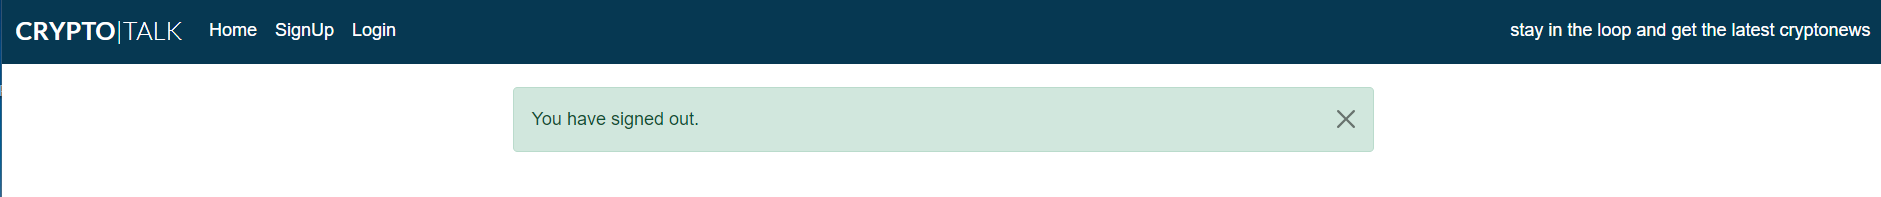
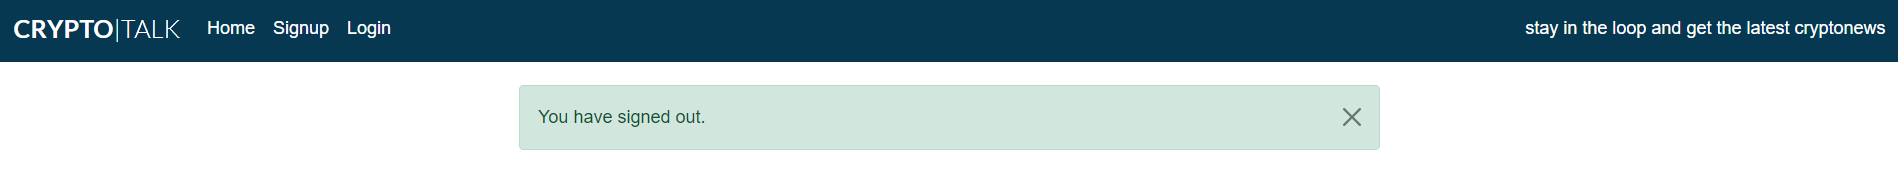
update spelling of signup

diff --git a/templates/base.html b/templates/base.html
@@ -59,7 +59,7 @@
                     </li>
                     {% else %}
                     <li class="nav-item">
-                        <a class="nav-link" href="{% url 'account_signup' %}">SignUp</a>
+                        <a class="nav-link" href="{% url 'account_signup' %}">Signup</a>
                     </li>
                     <li class="nav-item">
                         <a class="nav-link" href="{% url 'account_login' %}">Login</a>
@@ -113,7 +113,7 @@
         let messages = document.getElementById('msg');
         let alert = new bootstrap.Alert(messages);
         alert.close();
-    }, 2500);
+    }, 25000);
 </script>
 
 </body>

diff --git a/templates/account/signup.html b/templates/account/signup.html
@@ -8,7 +8,7 @@
 <div class="container">
     <div class="row">
         <div class="col-md-8 mt-3 offset-md-2">
-            <h3>{% trans "Sign Up" %}</h3>
+            <h3>{% trans "Signup" %}</h3>
 
             <p>{% blocktrans %}Welcome back to the code|star blog. Do you already have an account? Then please <a
                     class="link" href="{{ login_url }}">login</a> instead.{% endblocktrans %}</p>

diff --git a/templates/account/login.html b/templates/account/login.html
@@ -15,7 +15,7 @@
         <p>
           Welcome back to the CryptoTalk Blog. To leave a comment or like a post,
           please log in. If you have not created an account yet, then
-          <a class="link" href="{{ signup_url }}">sign up</a> first.
+          <a class="link" href="{{ signup_url }}">signup</a> first.
         </p>
       </div>
     </div>

diff --git a/README.md b/README.md
@@ -205,12 +205,12 @@ The sites navbar is located at the top of each page. This adds to consistency an
 
 The sites sign up page is simple and intuitive. 
 
-![Sign Up](static/images-readme/sign-up.png)
+![Sign Up](static/images-readme/signup.png)
 
 #### Login
 The sites login page tells the user what it needs to validate. 
 
-![Login](static/images-readme/sign-in.png)
+![Login](static/images-readme/login.png)
 
 #### Logout
 The sites logout page asks one simple question. 
